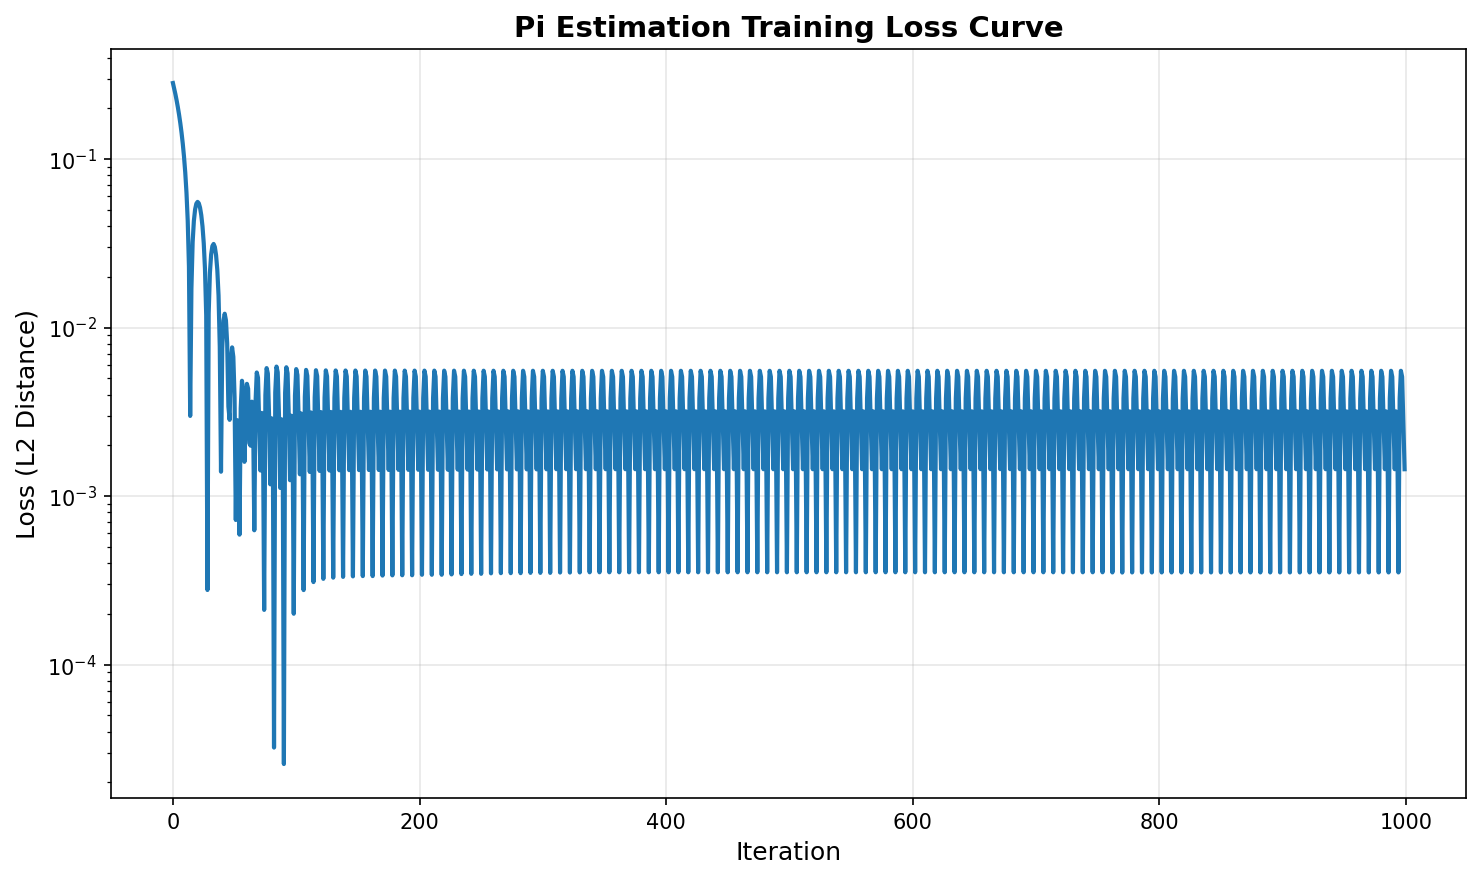
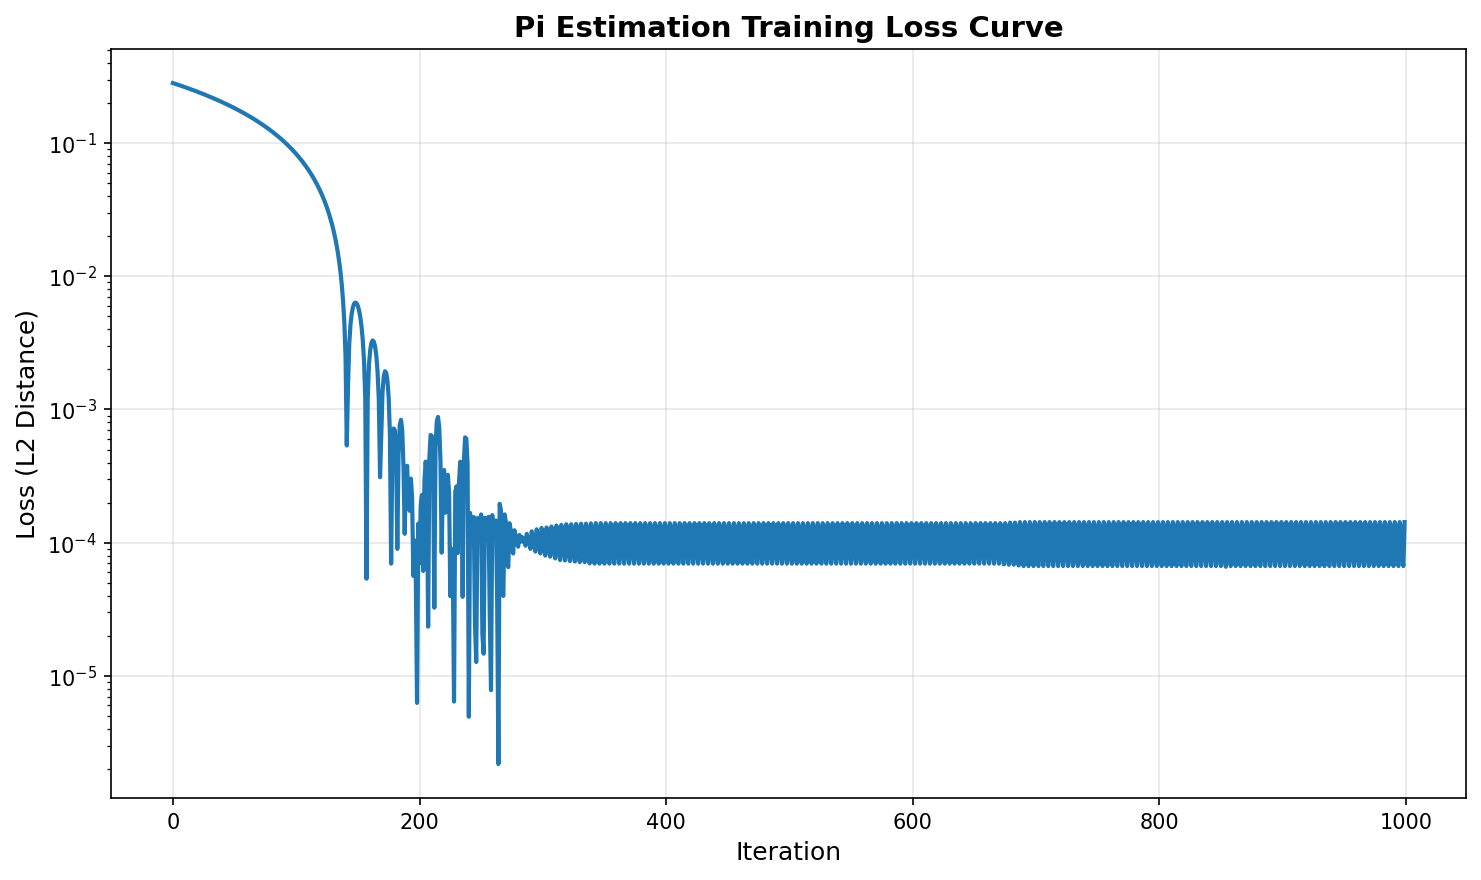
Intial guess and tqdm

diff --git a/notebooks_torch/pi_estimation.py b/notebooks_torch/pi_estimation.py
@@ -33,6 +33,7 @@ import torch.optim as optim
 import matplotlib.pyplot as plt
 import numpy as np
 import os
+from tqdm import tqdm
 
 
 def compute_sin_cos_from_circle(angle):
@@ -73,7 +74,7 @@ def compute_sin_cos_from_circle(angle):
         y = y + dy
 
         # Normalize to keep on unit circle (enforce x^2 + y^2 = 1)
-        norm = torch.sqrt(x*x + y*y)
+        norm = torch.sqrt(x * x + y * y)
         x = x / norm
         y = y / norm
 
@@ -83,13 +84,18 @@ def compute_sin_cos_from_circle(angle):
 def rotation_matrix(angle):
     """Create a 2D rotation matrix for the given angle using circle geometry."""
     cos_theta, sin_theta = compute_sin_cos_from_circle(angle)
-    return torch.stack([
-        torch.stack([cos_theta, -sin_theta]),
-        torch.stack([sin_theta, cos_theta])
-    ])
+    return torch.stack(
+        [torch.stack([cos_theta, -sin_theta]), torch.stack([sin_theta, cos_theta])]
+    )
 
 
-def estimate_pi(n_rotations=1000, learning_rate=0.01, n_iterations=10000, radius=1.0):
+def estimate_pi(
+    initial_guess=3.0,
+    n_rotations=1000,
+    learning_rate=0.01,
+    n_iterations=10000,
+    radius=1.0,
+):
     """
     Estimate pi by learning it as a parameter through gradient descent.
 
@@ -103,7 +109,7 @@ def estimate_pi(n_rotations=1000, learning_rate=0.01, n_iterations=10000, radius
         Tuple of (estimated pi value, loss history)
     """
     # Initialize pi as a learnable parameter with a reasonable starting guess
-    pi_learned = nn.Parameter(torch.tensor(3.0, dtype=torch.float32))
+    pi_learned = nn.Parameter(torch.tensor(initial_guess, dtype=torch.float32))
 
     # Starting point at (r, 0)
     start_point = torch.tensor([radius, 0.0], dtype=torch.float32)
@@ -115,7 +121,7 @@ def estimate_pi(n_rotations=1000, learning_rate=0.01, n_iterations=10000, radius
     loss_history = []
 
     # Training loop
-    for iteration in range(n_iterations):
+    for iteration in tqdm(range(n_iterations)):
         optimizer.zero_grad()
 
         # Calculate the rotation angle: 2*pi/N
@@ -144,12 +150,14 @@ def estimate_pi(n_rotations=1000, learning_rate=0.01, n_iterations=10000, radius
 
         # Print progress
         if (iteration + 1) % 200 == 0:
-            print(f"Iteration {iteration + 1}/{n_iterations}, Loss: {loss.item():.6f}, Pi estimate: {pi_learned.item():.6f}")
+            print(
+                f"Iteration {iteration + 1}/{n_iterations}, Loss: {loss.item():.6f}, Pi estimate: {pi_learned.item():.6f}"
+            )
 
     return pi_learned.item(), loss_history
 
 
-def plot_loss_curve(loss_history, filename='pi_estimation_loss.png'):
+def plot_loss_curve(loss_history, filename="pi_estimation_loss.png"):
     """Plot and save the loss curve during training."""
     # Save to the same directory as this script
     script_dir = os.path.dirname(os.path.abspath(__file__))
@@ -157,18 +165,18 @@ def plot_loss_curve(loss_history, filename='pi_estimation_loss.png'):
 
     plt.figure(figsize=(10, 6))
     plt.plot(loss_history, linewidth=2)
-    plt.xlabel('Iteration', fontsize=12)
-    plt.ylabel('Loss (L2 Distance)', fontsize=12)
-    plt.title('Pi Estimation Training Loss Curve', fontsize=14, fontweight='bold')
+    plt.xlabel("Iteration", fontsize=12)
+    plt.ylabel("Loss (L2 Distance)", fontsize=12)
+    plt.title("Pi Estimation Training Loss Curve", fontsize=14, fontweight="bold")
     plt.grid(True, alpha=0.3)
-    plt.yscale('log')
+    plt.yscale("log")
     plt.tight_layout()
-    plt.savefig(filepath, dpi=150, bbox_inches='tight')
+    plt.savefig(filepath, dpi=150, bbox_inches="tight")
     print(f"Loss curve saved to {filepath}")
     plt.close()
 
 
-def plot_circle_with_learned_pi(estimated_pi, filename='pi_estimation_circle.png'):
+def plot_circle_with_learned_pi(estimated_pi, filename="pi_estimation_circle.png"):
     """
     Draw a circle using the learned pi value and the compute_sin_cos_from_circle function.
     This visualizes how well our learned pi approximates a true circle.
@@ -200,17 +208,24 @@ def plot_circle_with_learned_pi(estimated_pi, filename='pi_estimation_circle.png
 
     # Plot both circles
     plt.figure(figsize=(10, 10))
-    plt.plot(x_coords, y_coords, 'b-', linewidth=2, label=f'Learned π = {estimated_pi:.6f}')
-    plt.plot(x_true, y_true, 'r--', linewidth=1.5, alpha=0.7, label=f'True π = {np.pi:.6f}')
-    plt.xlabel('X', fontsize=12)
-    plt.ylabel('Y', fontsize=12)
-    plt.title('Circle Drawn Using Learned Pi\n(No Built-in Sin/Cos Functions)',
-              fontsize=14, fontweight='bold')
-    plt.axis('equal')
+    plt.plot(
+        x_coords, y_coords, "b-", linewidth=2, label=f"Learned π = {estimated_pi:.6f}"
+    )
+    plt.plot(
+        x_true, y_true, "r--", linewidth=1.5, alpha=0.7, label=f"True π = {np.pi:.6f}"
+    )
+    plt.xlabel("X", fontsize=12)
+    plt.ylabel("Y", fontsize=12)
+    plt.title(
+        "Circle Drawn Using Learned Pi\n(No Built-in Sin/Cos Functions)",
+        fontsize=14,
+        fontweight="bold",
+    )
+    plt.axis("equal")
     plt.grid(True, alpha=0.3)
     plt.legend(fontsize=11)
     plt.tight_layout()
-    plt.savefig(filepath, dpi=150, bbox_inches='tight')
+    plt.savefig(filepath, dpi=150, bbox_inches="tight")
     print(f"Circle plot saved to {filepath}")
     plt.close()
 
@@ -219,17 +234,32 @@ if __name__ == "__main__":
     print("=" * 70)
     print("Estimating Pi using Differentiable Programming")
     print("=" * 70)
-    print("Using circle equation x^2 + y^2 = 1 to compute rotations (no built-in sin/cos)")
+    print(
+        "Using circle equation x^2 + y^2 = 1 to compute rotations (no built-in sin/cos)"
+    )
     print(f"True value of Pi: {torch.pi:.6f}\n")
 
-    # Estimate pi (reduced iterations for faster demonstration)
-    estimated_pi, loss_history = estimate_pi(n_rotations=100, learning_rate=0.01, n_iterations=1000)
+    # Estimate pi using Archimedes' approach (96-sided polygon for historical accuracy)
+    estimated_pi, loss_history = estimate_pi(
+        initial_guess=3.0,
+        n_rotations=96,
+        learning_rate=0.001,
+        n_iterations=1000,
+    )
+
+    # Sanity check
+    # estimated_pi, loss_history = estimate_pi(
+    #     initial_guess=torch.pi,
+    #     n_rotations=1000,
+    #     learning_rate=0.0000001,
+    #     n_iterations=1000,
+    # )
 
     print("\n" + "=" * 70)
     print("RESULTS")
     print("=" * 70)
     print(f"Final estimated Pi: {estimated_pi:.6f}")
-    print(f"True Pi:            {torch.pi:.6f}")
+    print(f"True Pi (PyTorch):  {torch.pi:.6f}")
     print(f"Absolute Error:     {abs(estimated_pi - torch.pi):.6f}")
     print(f"Relative Error:     {abs(estimated_pi - torch.pi) / torch.pi * 100:.4f}%")
 
